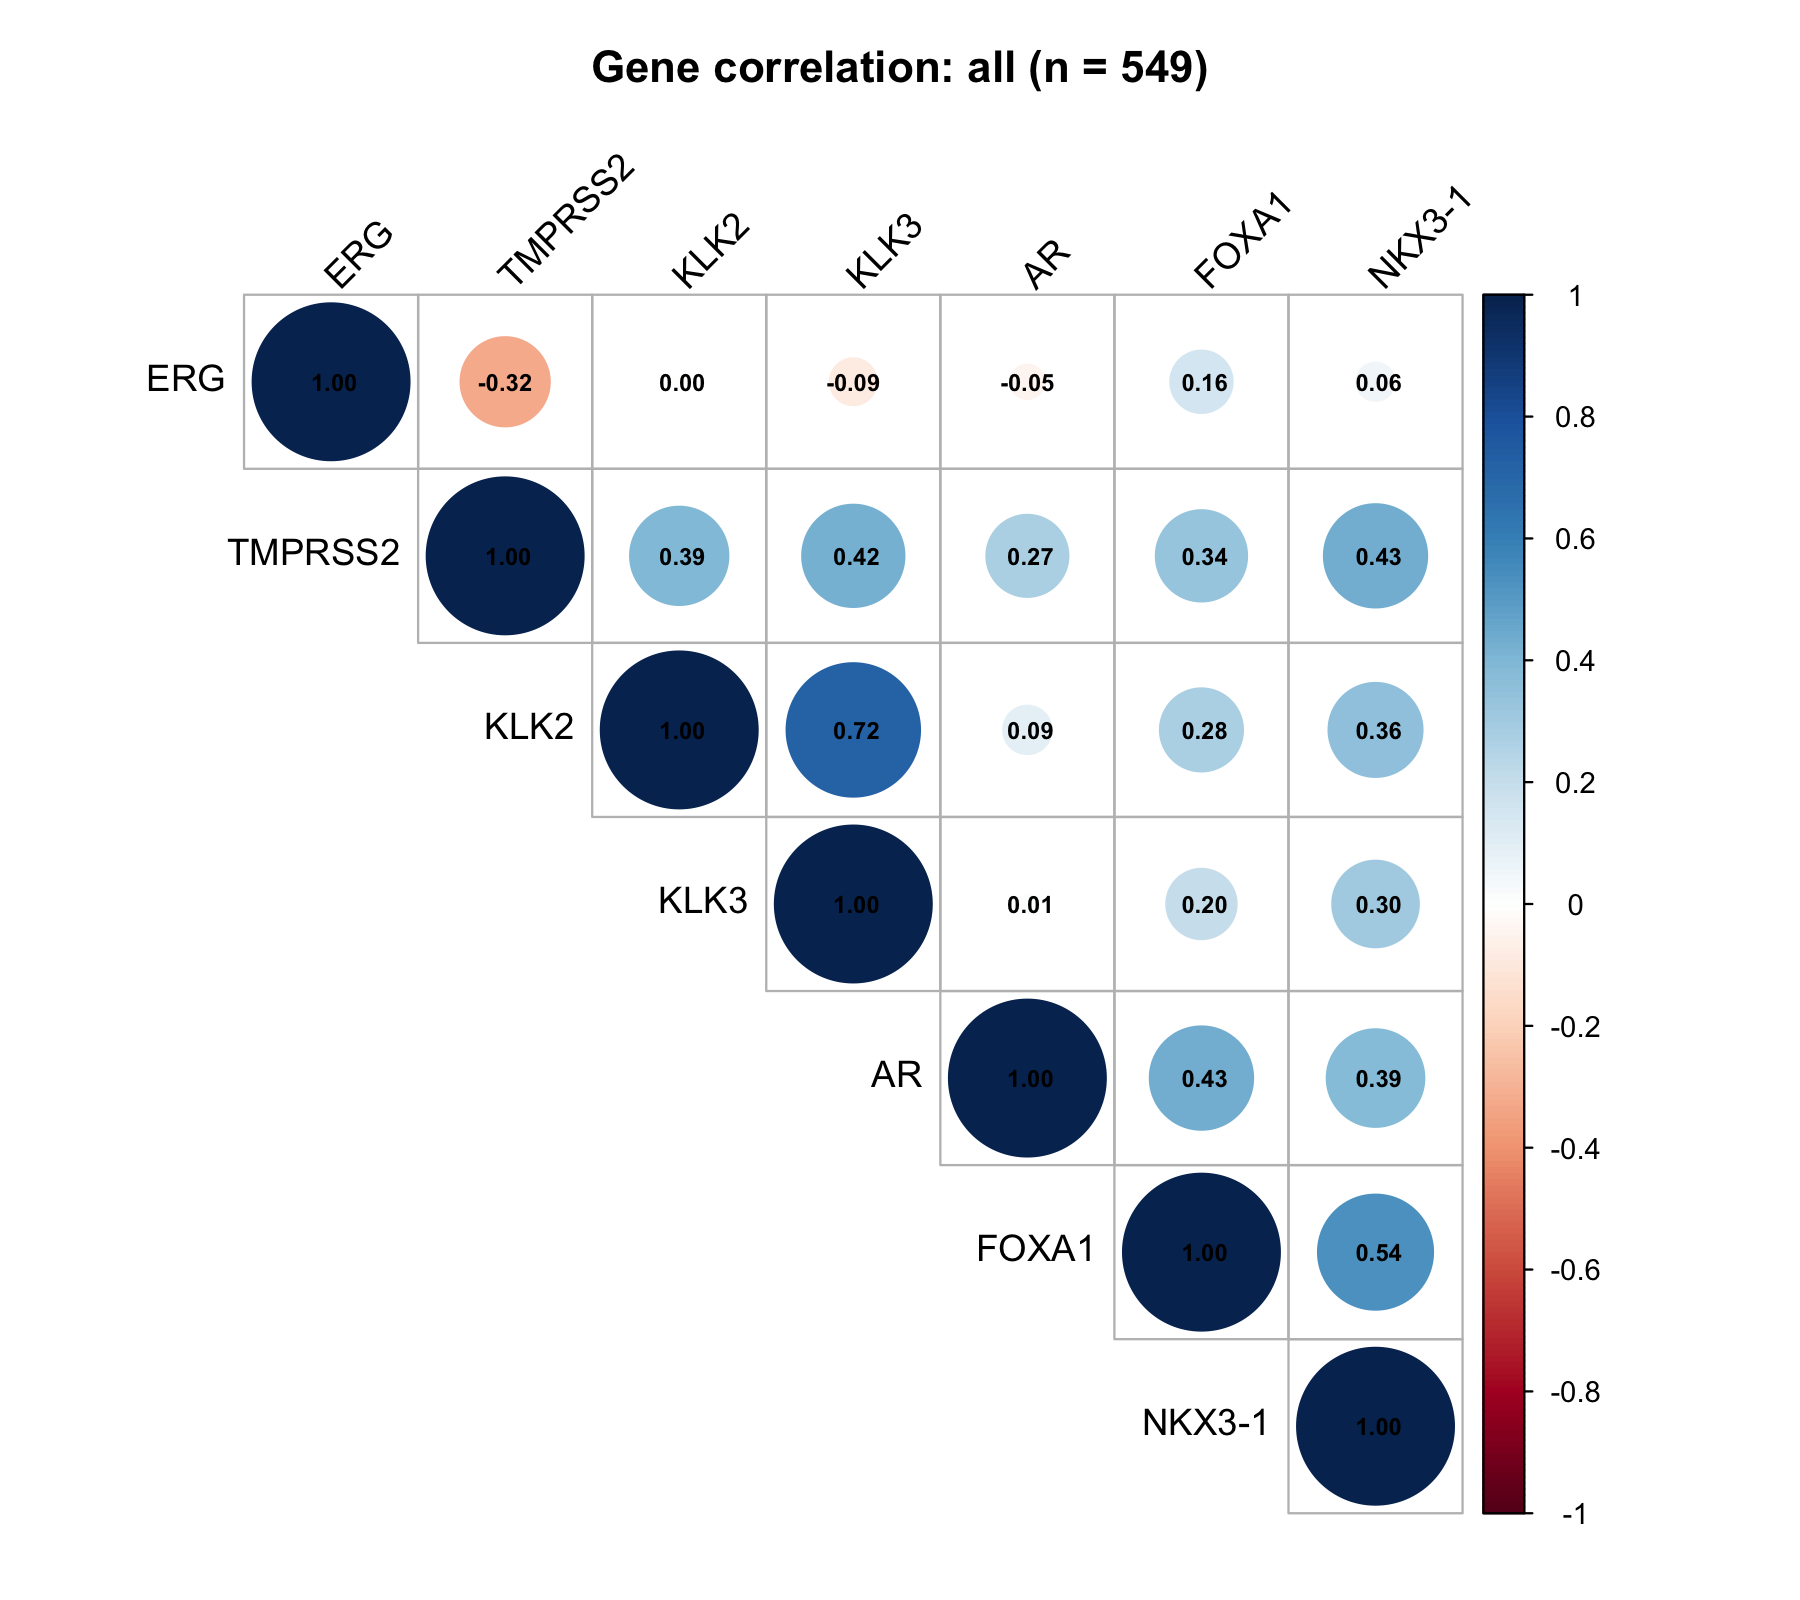
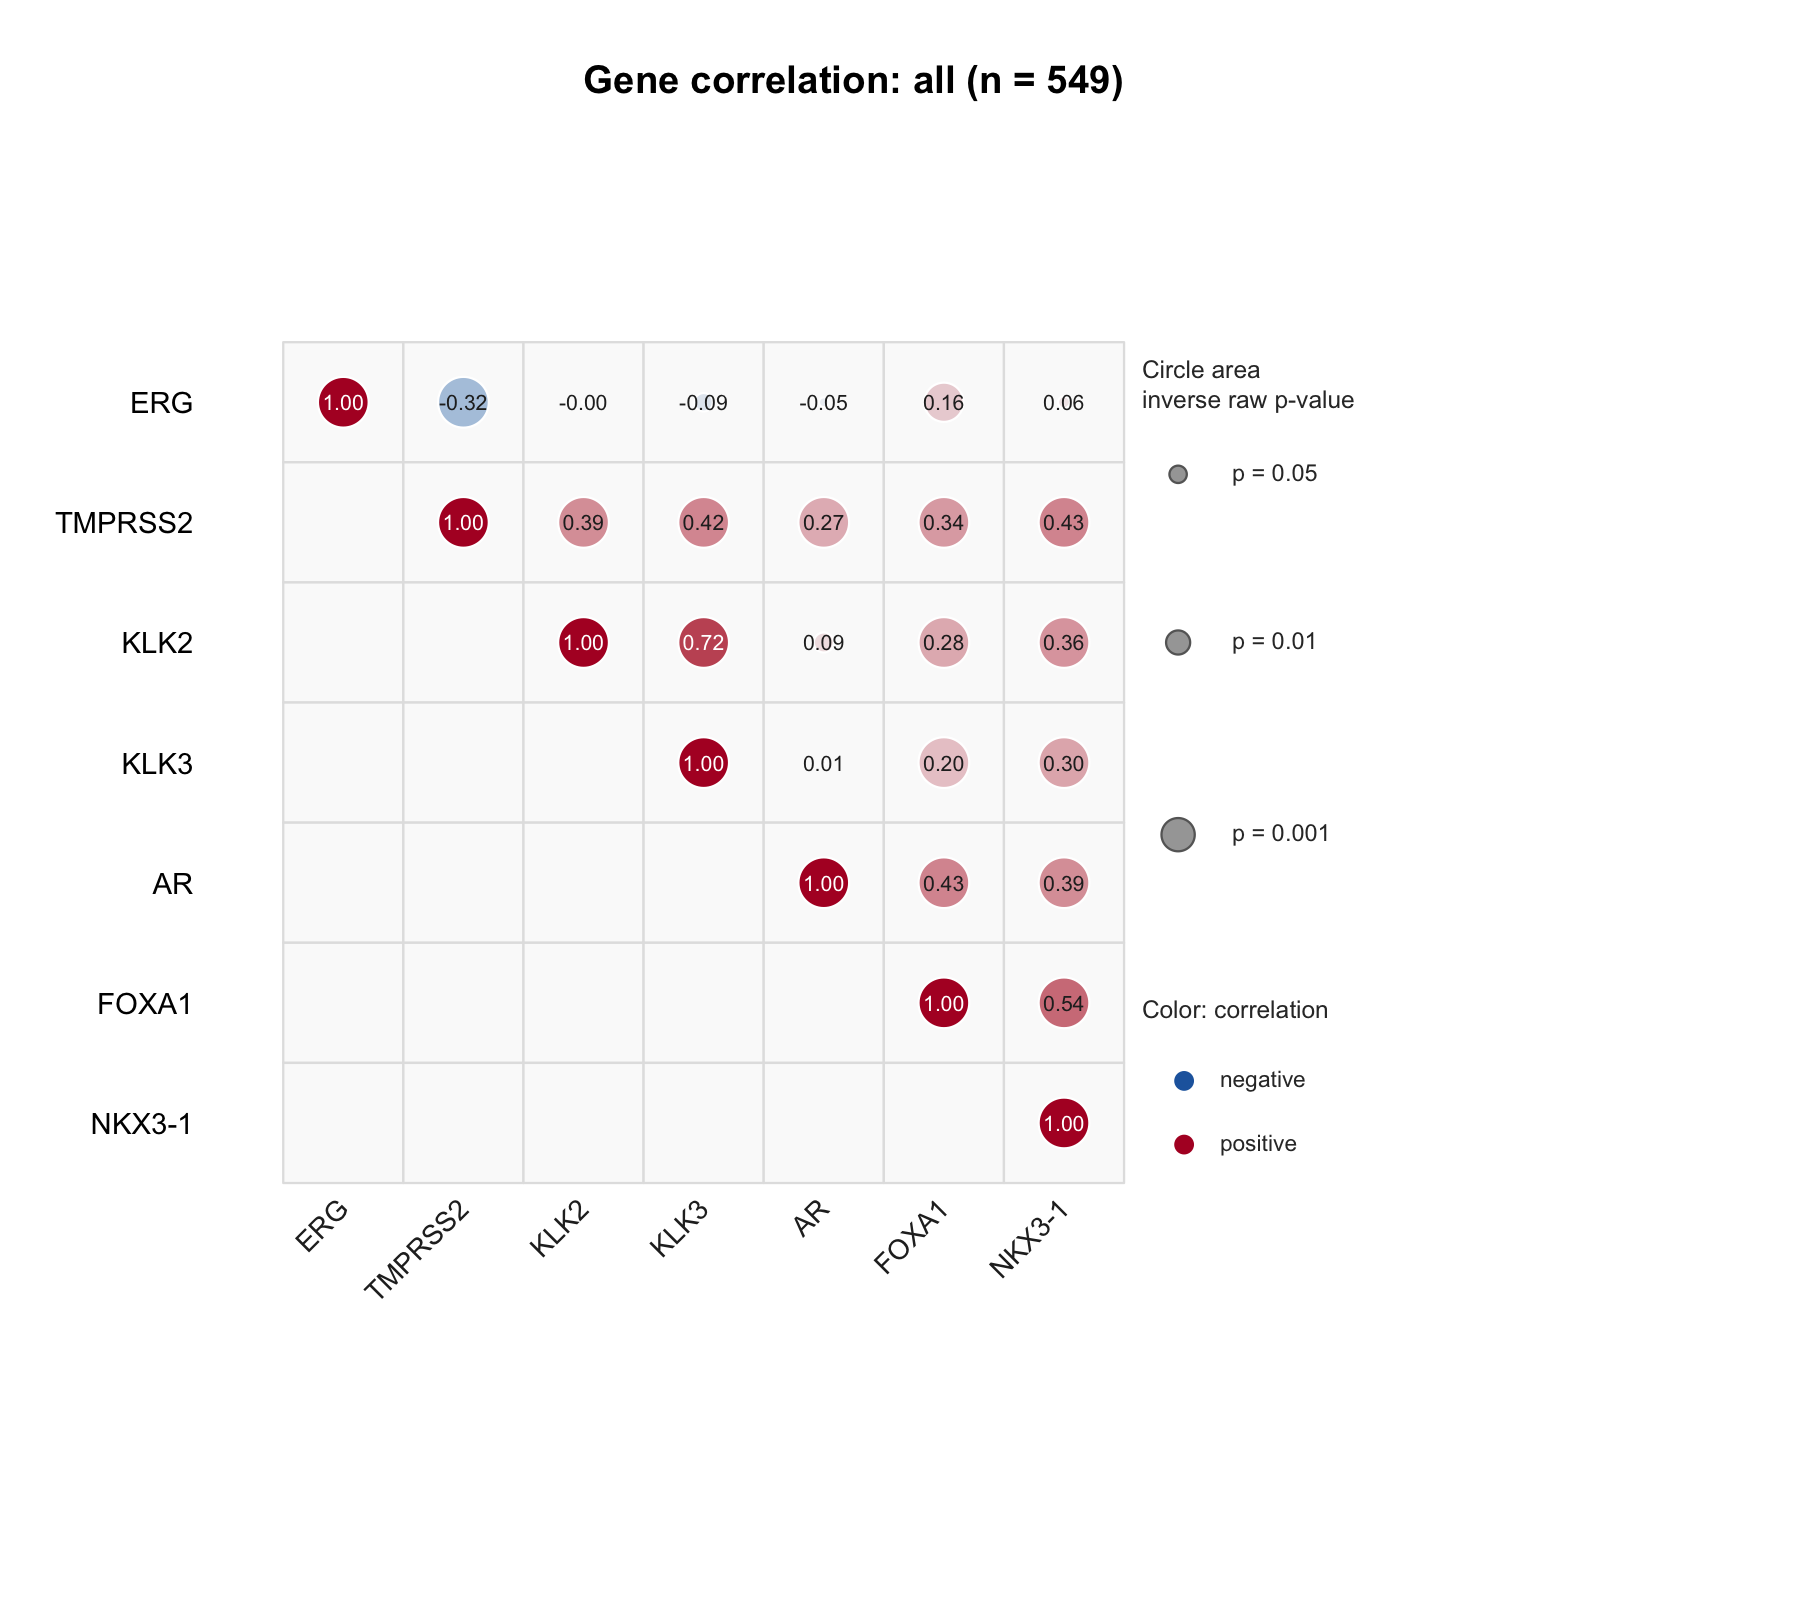
Encode p-values in bubble heatmap area

diff --git a/README.md b/README.md
@@ -6,7 +6,7 @@ This is a standalone application for command-line, HPC, and future OncoChat use.
 
 ## Example output from real data
 
-The figure below was generated with normalized bulk RNA-seq expression from the public [TCGA-PRAD project](https://portal.gdc.cancer.gov/projects/TCGA-PRAD). It shows pooled Spearman correlations across 549 matched samples for a small prostate-expression panel (`AR`, `FOXA1`, `KLK2`, `KLK3`, `NKX3-1`, `TMPRSS2`, and `ERG`). This is a workflow demonstration, not a prognostic or clinical claim.
+The figure below was generated with normalized bulk RNA-seq expression from the public [TCGA-PRAD project](https://portal.gdc.cancer.gov/projects/TCGA-PRAD). It shows pooled Spearman correlations across 549 matched samples for a small prostate-expression panel (`AR`, `FOXA1`, `KLK2`, `KLK3`, `NKX3-1`, `TMPRSS2`, and `ERG`). In the bubble panel, circle area encodes inverse raw p-value, color encodes signed correlation, and the printed number is the correlation coefficient. This is a workflow demonstration, not a prognostic or clinical claim.
 
 | Circle / bubble view (default) | Square view (`--heatmap-style square`) |
 | --- | --- |
@@ -60,7 +60,7 @@ docker run --rm --platform linux/amd64 \
 
 `--categories all` analyzes every selected sample in addition to any named category. `--samples` accepts a comma-separated list or a file with one sample ID per line. For duplicate gene rows, use `sum` for RNA-seq-style counts and `max` for probe-style microarray data.
 
-`--heatmap-style circle` is the default bubble view: circle area represents correlation magnitude and color represents direction. Use `--heatmap-style square` for the same data and labels in a colored-square matrix. Both retain the correlation-based gene ordering and coefficient labels.
+`--heatmap-style circle` is the default bubble view: circle area represents inverse raw p-value (smaller circles indicate larger p-values), color represents the signed correlation, and the printed value is the correlation coefficient. Its size key is shown by default; use `--show-significance false` to hide that key without changing the bubbles. Use `--heatmap-style square` for the same data and coefficient labels in a colored-square matrix. Both retain the correlation-based gene ordering. The Benjamini-Hochberg FDR matrix is always written as a separate output.
 
 ## Input file formats
 
@@ -144,7 +144,7 @@ The published `v0.1.1` image targets `linux/amd64`, uses `/data` as read-only in
 ## Requirements
 
 - R 4.5.x (the container uses `rocker/r-ver:4.5.2`)
-- `corrplot` for circle/bubble or square correlation heatmaps; a base-R heatmap fallback is available
+- `corrplot` for the square correlation heatmap; the default p-value bubble plot uses base R graphics
 - L2P for automatic gene-symbol updates
 - Docker, Apptainer, or Singularity for container execution
 

diff --git a/docs/examples/tcga-prad-7gene-panel.md b/docs/examples/tcga-prad-7gene-panel.md
@@ -40,4 +40,4 @@ Rscript --vanilla entrypoint.R \
   --output-dir results/tcga-prad-seven-gene-panel
 ```
 
-The identical analysis was also run with `--heatmap-style square` into a separate output directory. The README contains the derived pooled-category figure from each run and no input data. The full output contract also includes category-specific correlation, p-value, and Benjamini-Hochberg FDR matrices.
+The identical analysis was also run with `--heatmap-style square` into a separate output directory. In the default circle figure, circle area encodes inverse raw p-value, color encodes signed correlation, and the printed number is the correlation coefficient. The README contains the derived pooled-category figure from each run and no input data. The full output contract also includes category-specific correlation, p-value, and Benjamini-Hochberg FDR matrices.

diff --git a/CHANGELOG.md b/CHANGELOG.md
@@ -3,6 +3,7 @@
 ## 0.1.1 — 2026-10-25
 
 - Adds a selectable correlation-heatmap style: the circle/bubble view is now the default, and `--heatmap-style square` retains the colored-square alternative.
+- In the default circle/bubble view, circle area now encodes inverse raw p-value, color encodes signed correlation, and printed labels retain the correlation coefficient. An in-plot size key can be hidden explicitly.
 - Fixes the default `max` duplicate-gene policy so its representative row retains the original sample-column names.
 
 ## 0.1.0 — 2026-10-25
